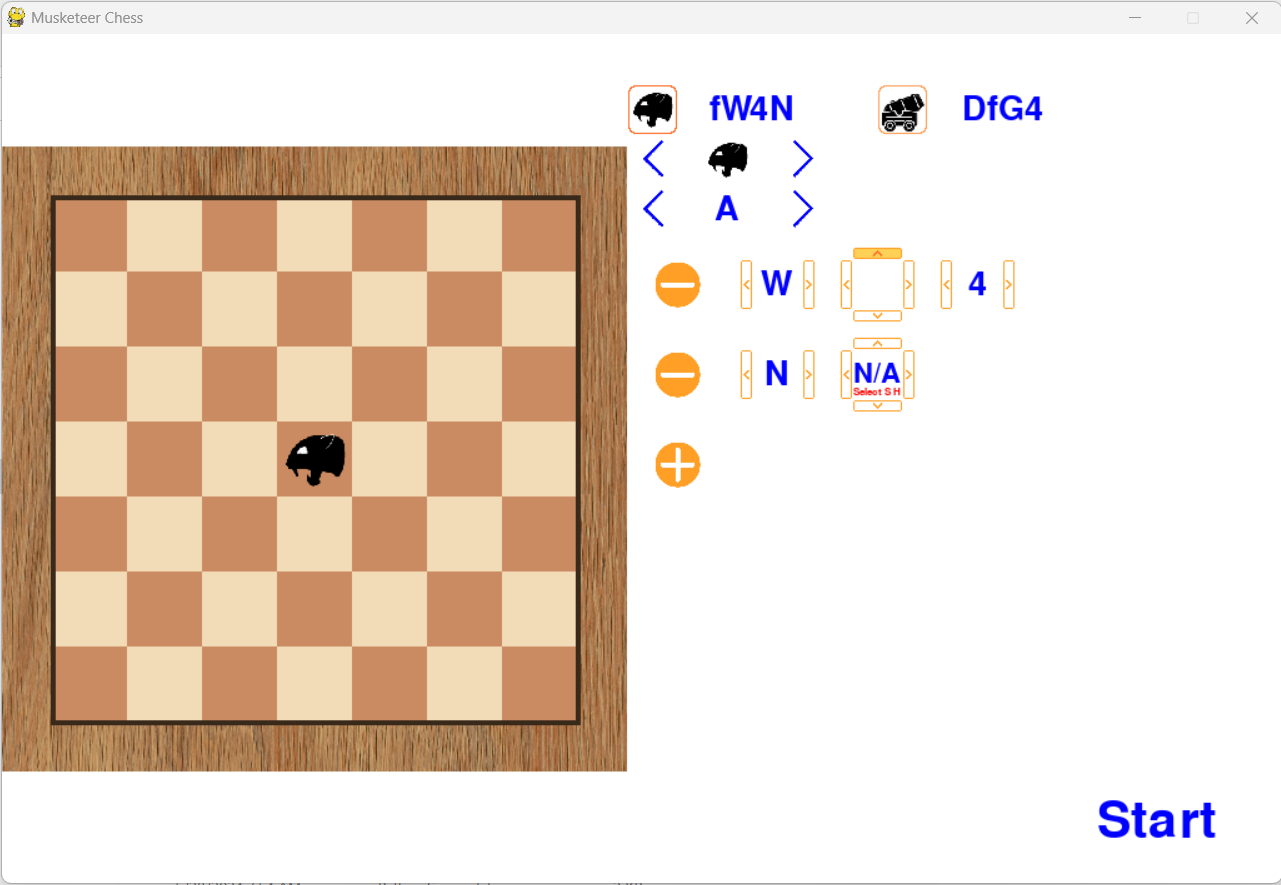
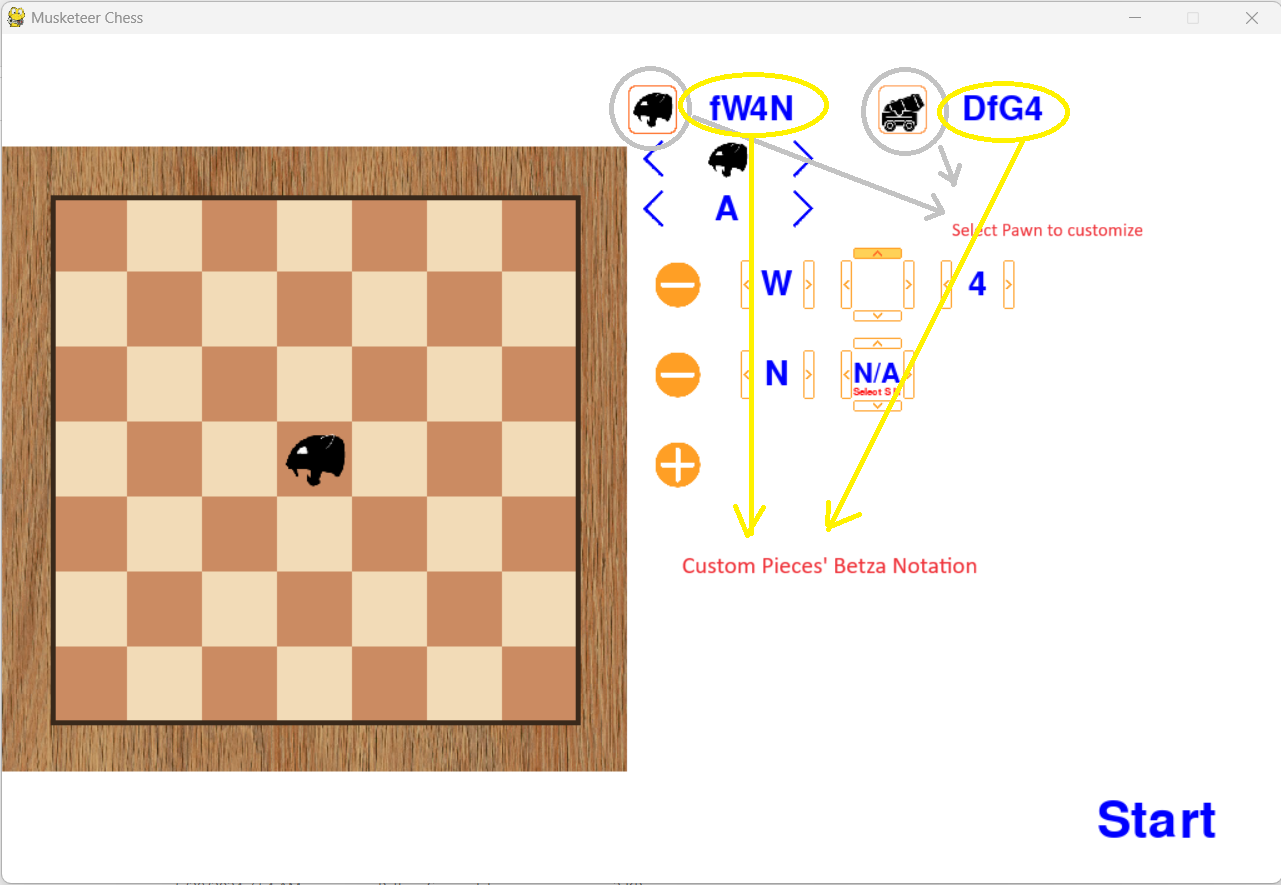
fix: readme

diff --git a/readme.md b/readme.md
@@ -1,2 +1,49 @@
 # Documentation
-![alt text](image-1.png)
+
+## Select Musketeer Chess Pieces
+
+In Musketeer Chess, you can customize up to two chess pieces. These custom pieces allow for a variety of strategic possibilities. You can personalize the piece icon letter and define its movement using Betza notation.
+
+![Select Musketeer Chess Pieces](readme/Screenshot%202024-06-20%20142905.png)
+
+### Customization Options
+
+**Piece Icon Letter:** You can choose a letter to represent your custom piece.
+
+**Betza Notations:** Define the movement of your piece using Betza notation. A piece can consist of multiple Betza notations, working in combination. Here are some examples:
+
+- **W**: Wazir, (0,1), moves one square Rookwise.
+- **D**: Dabbaba, (0,2), jumps two squares Rookwise.
+- **H**: (0,3), jumps three squares Rookwise.
+- **F**: Ferz, (1,1), moves one square diagonally.
+- **A**: Alfil, (2,2), jumps two squares diagonally.
+- **G**: (3,3), jumps three squares diagonally.
+- **N**: Knight, (1,2), jumps in an L-shape.
+- **L**: Long Knight, (1,3), jumps three squares in an L-shape.
+- **J**: (2,3), jumps to a (2,3) position.
+
+You can also customize **direction** and **length**:
+- **h**: means half.
+- **s**: means side.
+
+![Customize Notations](readme/Screenshot%202024-06-20%20143603.png)
+
+## Playing
+
+1. **Select Where to Place Custom Pieces:**
+   Choose the positions on the board for your custom pieces.
+
+   ![Place Custom Pieces](readme/Screenshot%202024-06-20%20144740.png)
+   ![Place Custom Pieces](readme/Screenshot%202024-06-20%20144858.png)
+
+2. **Play and Enjoy:**
+   Start the game and utilize your custom pieces strategically.
+
+   ![Play and Enjoy](readme/Screenshot%202024-06-20%20145011.png)
+
+3. **Save and Load Game:**
+   You can save your game progress and load it later using a convenient dialog.
+
+   ![Save and Load](readme/Screenshot%202024-06-20%20145626.png)
+
+Enjoy customizing your chess pieces and enhancing your game with Musketeer Chess!
